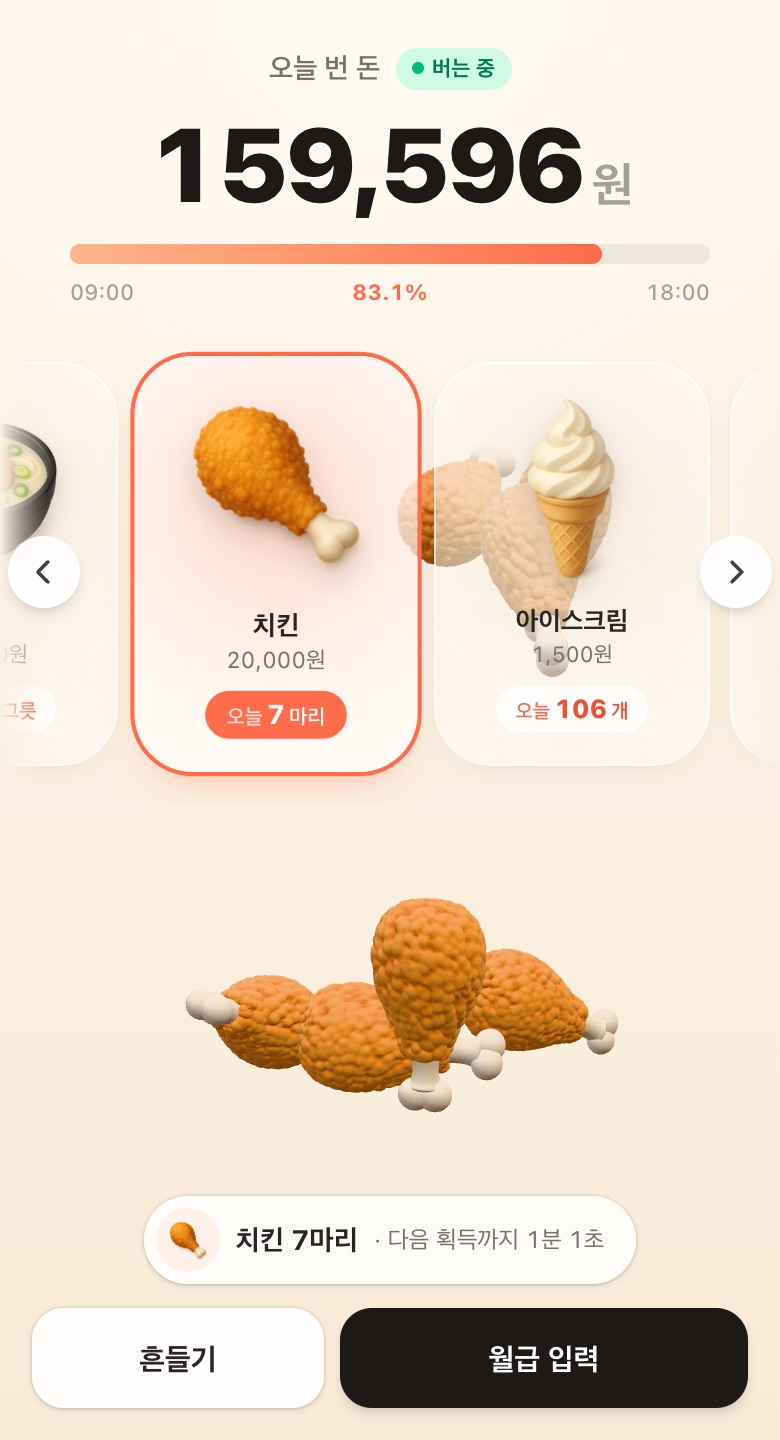
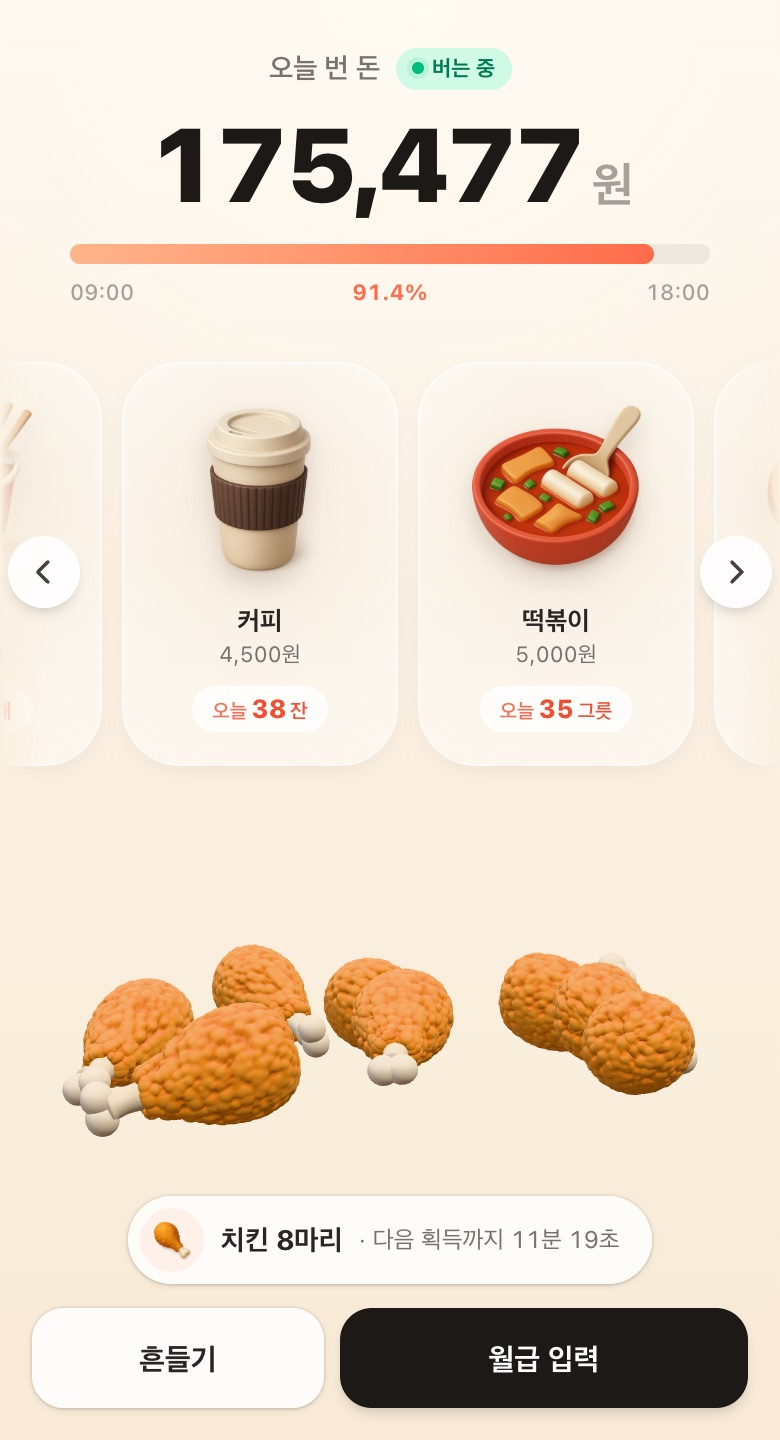
[design] /story 인트로 목업 360px, 치킨이 다 쌓인 장면으로 교체

diff --git a/src/app/story/page.tsx b/src/app/story/page.tsx
@@ -270,8 +270,8 @@ export default function StoryPage() {
                 </a>
               </div>
             </div>
-            <div data-intro-mockup className="pointer-events-auto mx-auto mt-10 w-full max-w-[340px] lg:mx-0 lg:mt-0 lg:w-[380px] lg:max-w-none lg:shrink-0">
-              <ShotImage className="w-full" shot={{ src: "/story/13-live-falling.jpg", alt: "치킨이 떨어져 쌓이는 완성 화면", phone: true }} />
+            <div data-intro-mockup className="pointer-events-auto mx-auto mt-10 w-full max-w-[340px] lg:mx-0 lg:mt-0 lg:w-[360px] lg:max-w-none lg:shrink-0">
+              <ShotImage className="w-full" shot={{ src: "/story/13-live-falling.jpg", alt: "치킨이 바닥에 쌓인 완성 화면", phone: true }} />
             </div>
           </header>
         </div>
